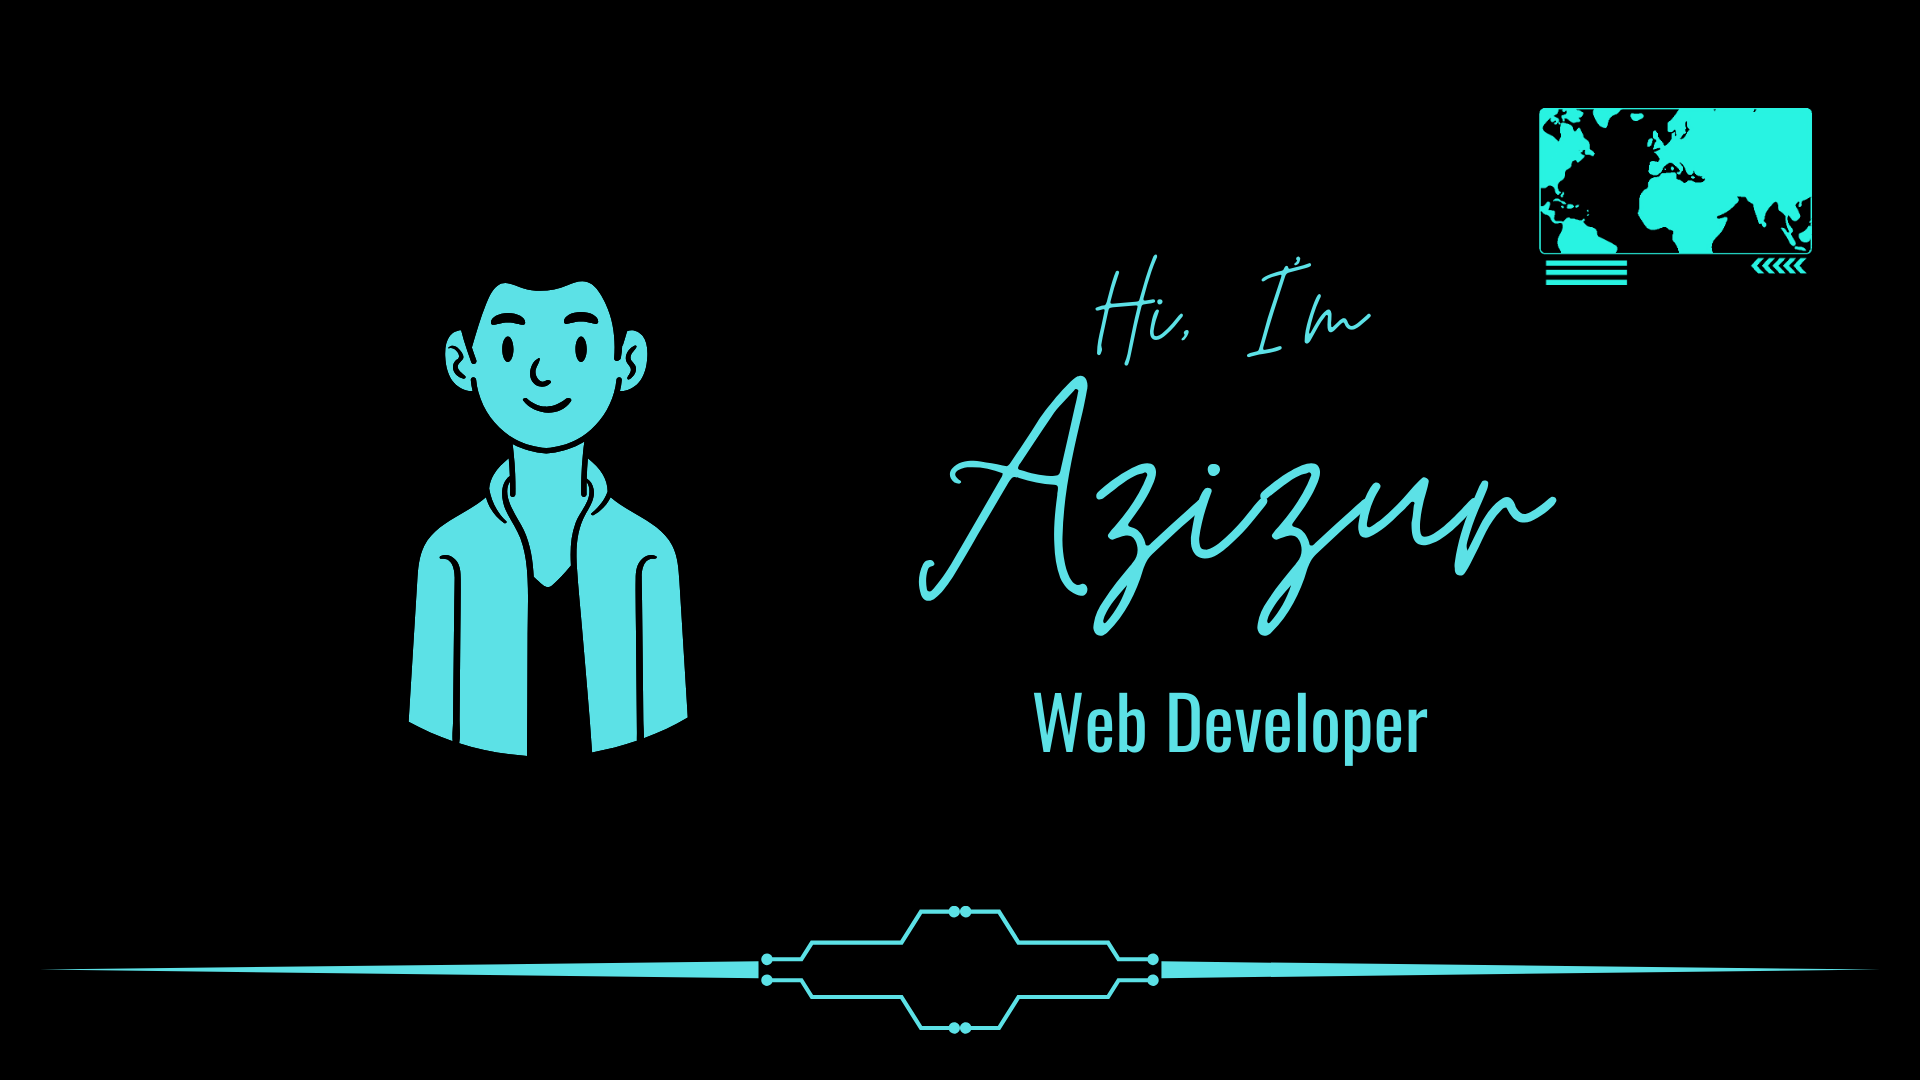
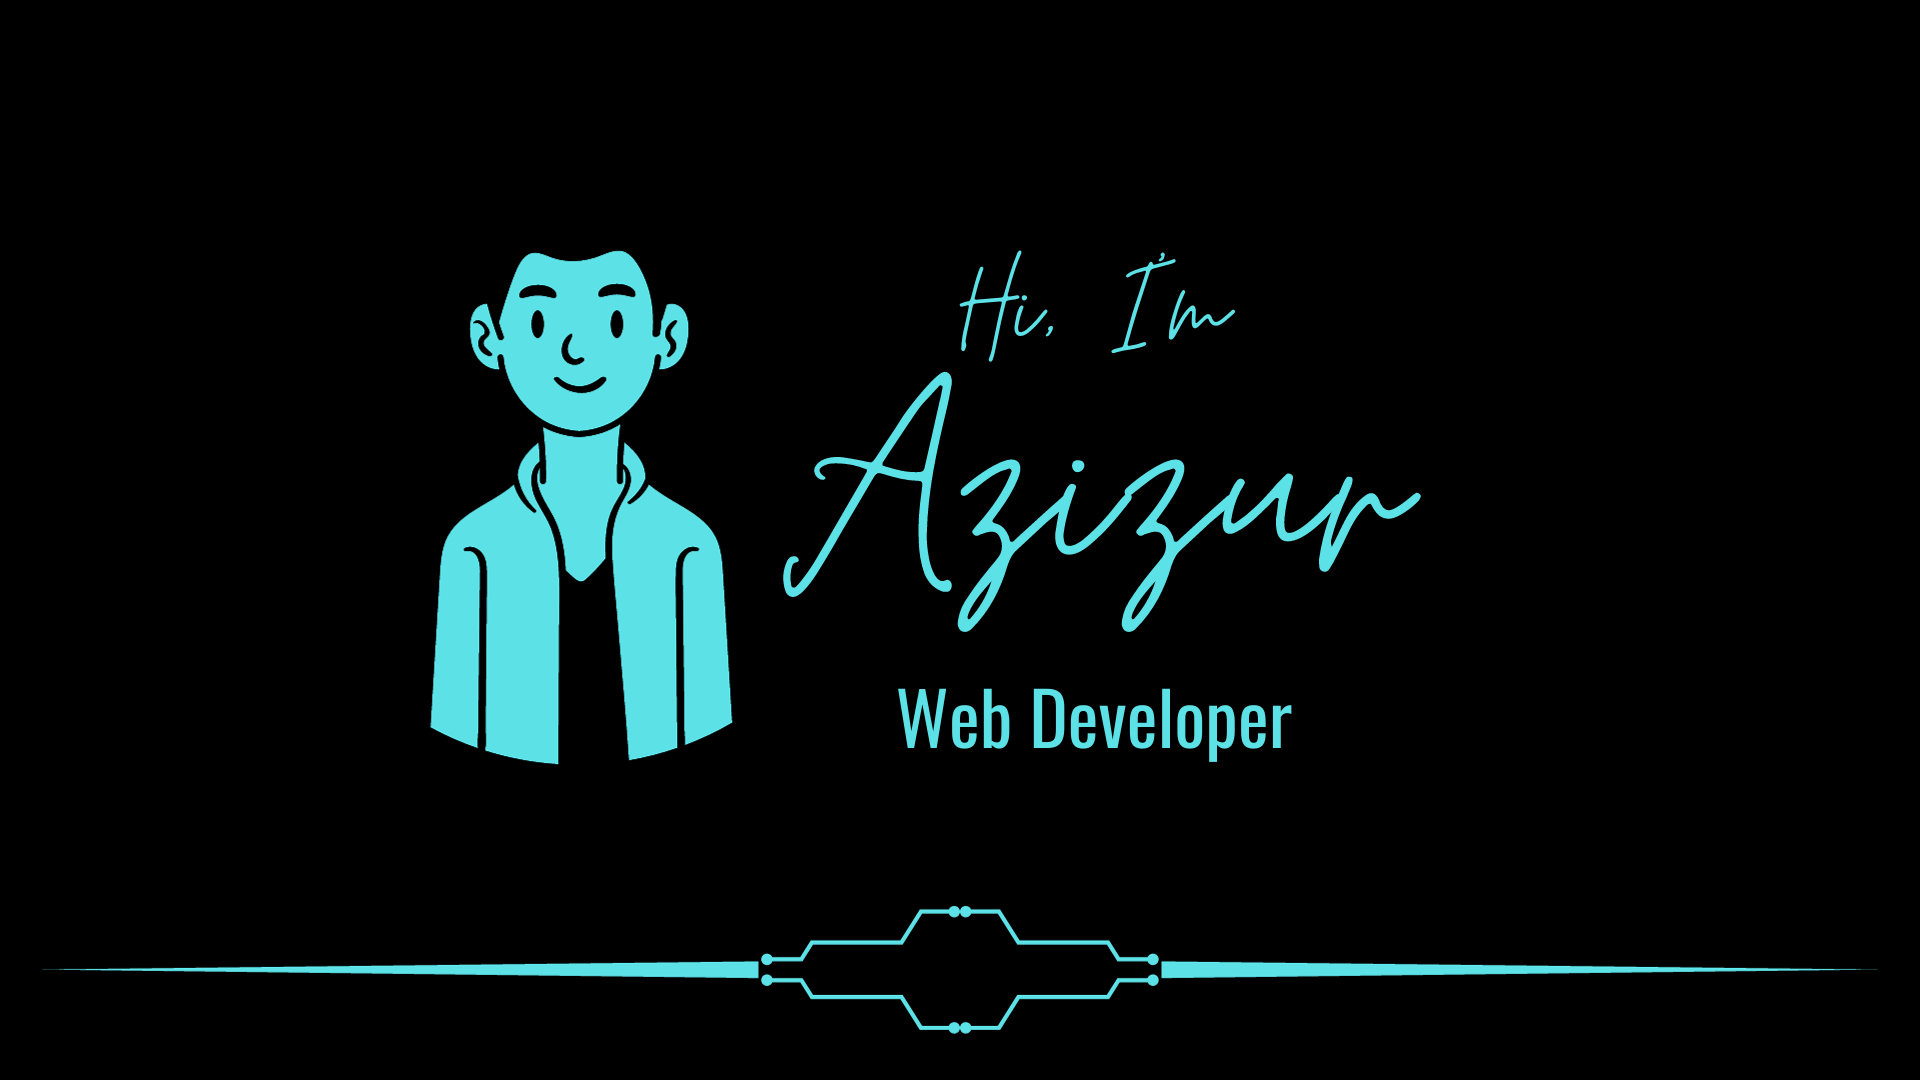
change cover and add profile view counter

diff --git a/README.md b/README.md
@@ -1,8 +1,13 @@
 <img src="/assets/cover.png" />
 
-<img width="100%" height="auto" src="https://i.imgur.com/iXuL1HG.png" height="175px"/></a>
-
-<h1 align="center">Hi<img src="https://media.giphy.com/media/hvRJCLFzcasrR4ia7z/giphy.gif" width="25px"> there, I'm Faisal</h1>
+<h2 align="center"> 
+Thanks 💙 For Being A Valuable Visitor of My Profile Among
+<br>
+<br>
+  <p align="center">
+  <img src="https://profile-counter.glitch.me/coderFaiisal/count.svg" border="0" title="free hit counter" alt="free hit counter">
+  </p>
+</h2>
 
 <h2 align="center">🙋♂ About Me</h2>
 
